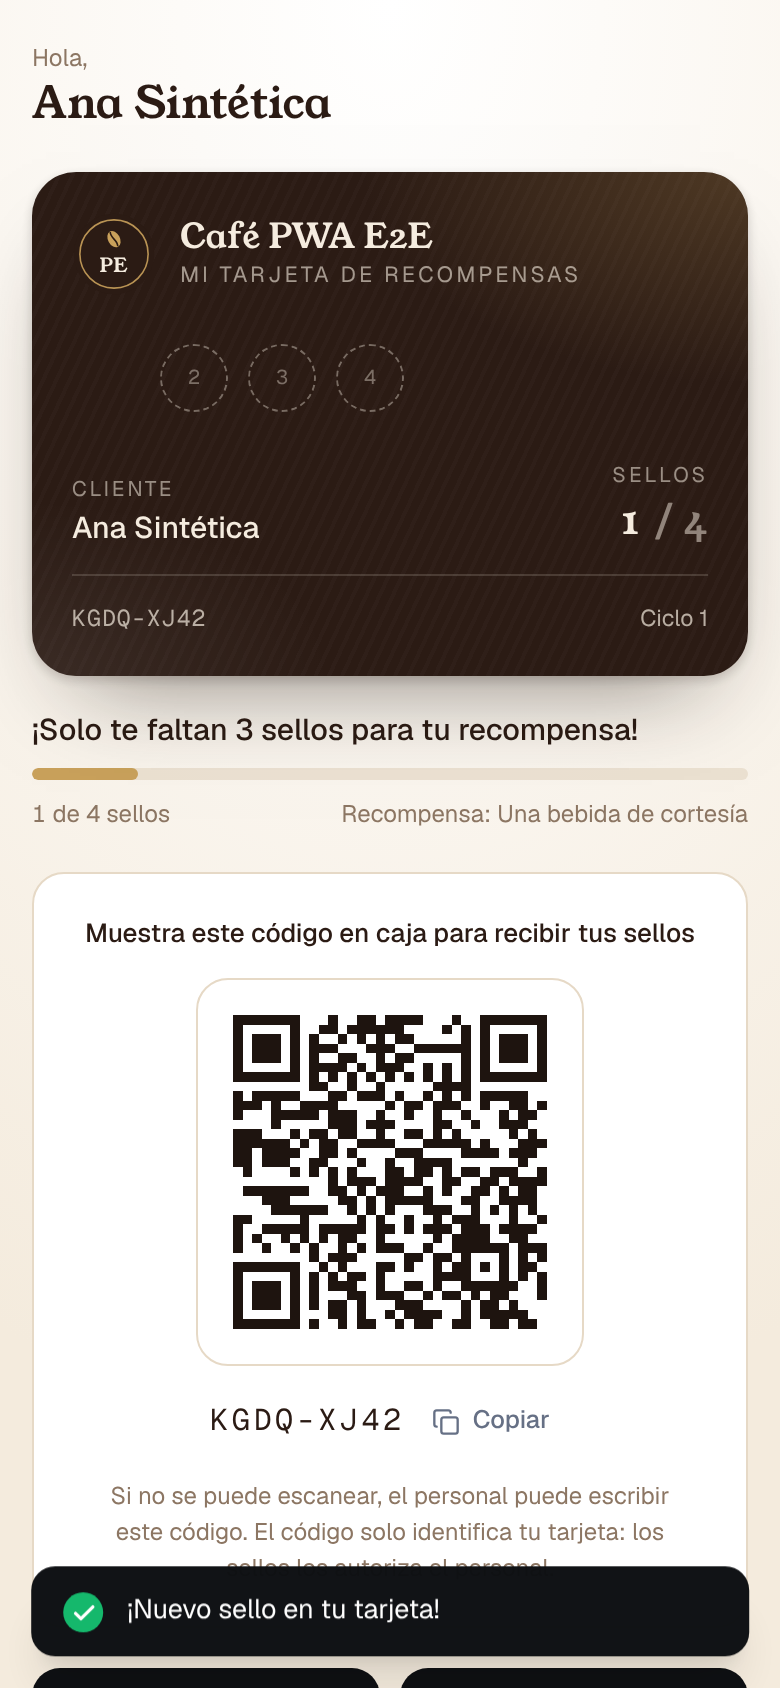
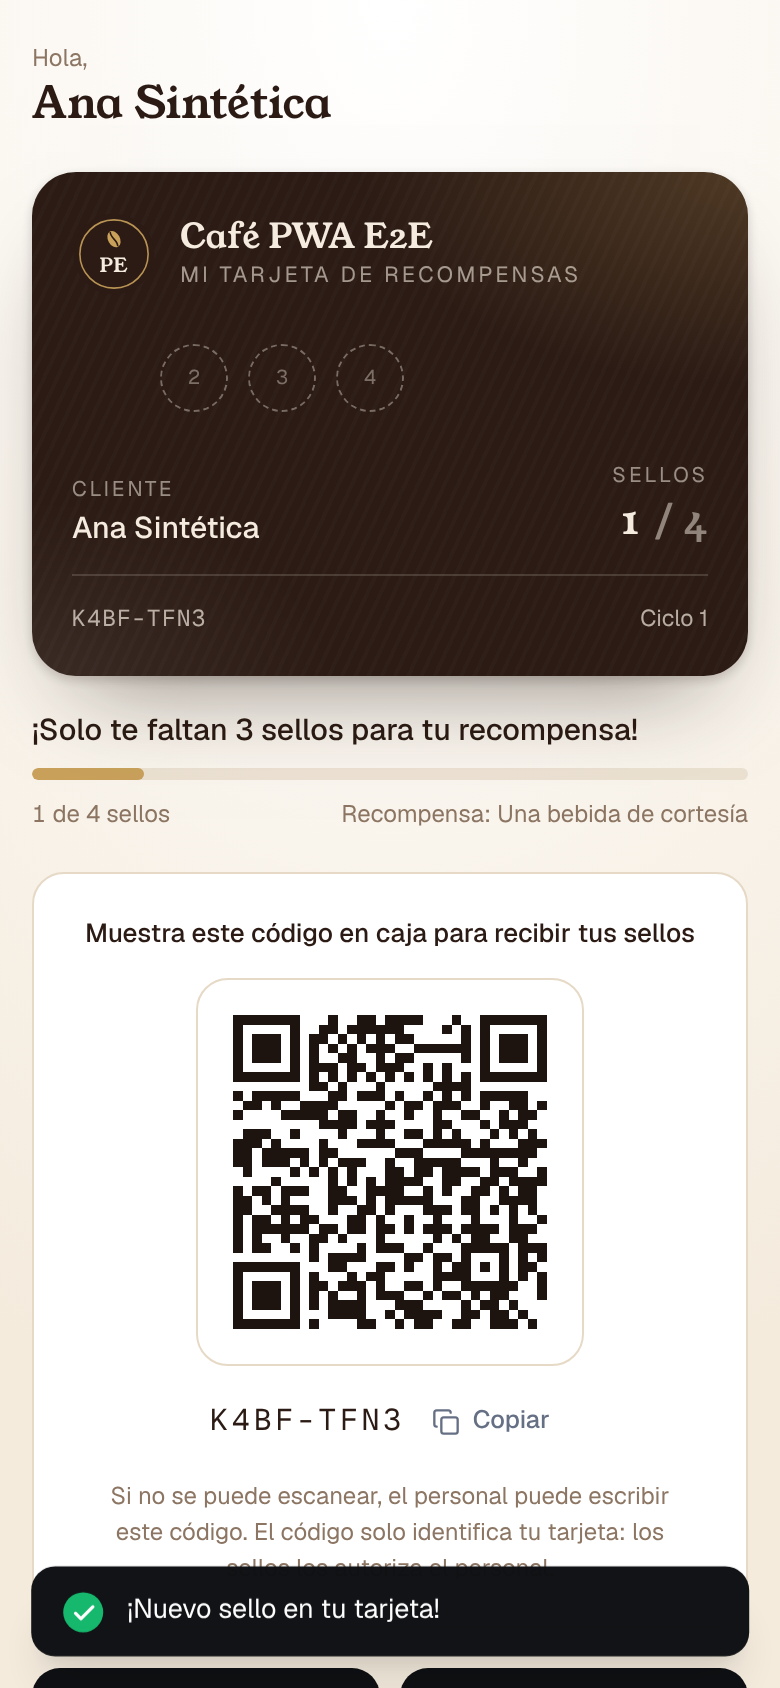
v0.2.2: correcciones de la revisión MSA (caché de íconos, RLS por negocio en códigos, reutilizar código, aviso de duplicado)
Claude-Session: https://claude.ai/code/session_01S7EQDY6CTzFJdWvEqDn6eR

diff --git a/src/components/SaveCard.tsx b/src/components/SaveCard.tsx
@@ -9,12 +9,21 @@ import { Button, Modal, Field, inputCls, CopyButton, useToast } from './ui';
 type PairCode = { code: string; expiresAt: string; expiresInMinutes: number };
 const fmtCode = (c: string) => `${c.slice(0, 4)} ${c.slice(4)}`;
 
+// Reutiliza el código vigente (en memoria de la página, nunca en almacenamiento) para no gastar el
+// cupo de códigos cada vez que se abre la guía. "Otro" fuerza uno nuevo.
+const openCodes = new Map<string, PairCode>();
+const stillValid = (c?: PairCode) => !!c && new Date(c.expiresAt).getTime() - Date.now() > 60_000;
+
 function usePairCode(slug: string) {
   const [code, setCode] = useState<PairCode | null>(null);
   const [error, setError] = useState<string | null>(null);
-  const load = useCallback(() => {
+  const load = useCallback((fresh = false) => {
     setError(null);
-    api<PairCode>('POST', `/me/${slug}/pair-code`).then(setCode).catch((e: ApiError) => setError(e.message));
+    const cached = openCodes.get(slug);
+    if (!fresh && stillValid(cached)) { setCode(cached!); return; }
+    api<PairCode>('POST', `/me/${slug}/pair-code`)
+      .then((c) => { openCodes.set(slug, c); setCode(c); })
+      .catch((e: ApiError) => setError(e.message));
   }, [slug]);
   return { code, error, load };
 }
@@ -30,10 +39,10 @@ function PairCodeBox({ slug, autoload }: { slug: string; autoload: boolean }) {
         <div className="mt-2 flex items-center gap-2">
           <span className="font-mono text-[22px] tracking-[0.12em] whitespace-nowrap text-cafe-ink" data-testid="pair-code">{fmtCode(code.code)}</span>
           <CopyButton text={code.code} />
-          <button onClick={load} className="ml-auto shrink-0 whitespace-nowrap text-[12px] text-cafe-muted inline-flex items-center gap-1 hover:text-cafe-ink"><RefreshCw size={12} /> Otro</button>
+          <button onClick={() => load(true)} className="ml-auto shrink-0 whitespace-nowrap text-[12px] text-cafe-muted inline-flex items-center gap-1 hover:text-cafe-ink"><RefreshCw size={12} /> Otro</button>
         </div>
       ) : error ? (
-        <p className="mt-2 text-[12.5px] text-[#B42318]">{error} <button onClick={load} className="underline">Reintentar</button></p>
+        <p className="mt-2 text-[12.5px] text-[#B42318]">{error} <button onClick={() => load(true)} className="underline">Reintentar</button></p>
       ) : (
         <p className="mt-2 text-[12.5px] text-cafe-muted">Generando…</p>
       )}
@@ -183,7 +192,10 @@ export function PairScreen({ slug, businessName, onPaired, onNew }: { slug: stri
           {mode === 'code' ? <><Link2 size={13} /> Usar mi enlace personal</> : <><KeyRound size={13} /> Usar un código</>}
         </button>
       </form>
-      <button onClick={onNew} className="text-[13px] text-cafe-muted underline">¿Aún no tienes tarjeta? Crear una</button>
+      <div className="text-center">
+        <button onClick={onNew} className="text-[13px] text-cafe-muted underline">¿Aún no tienes tarjeta? Crear una</button>
+        <p className="mt-1 text-[11.5px] text-cafe-muted leading-snug">Si ya tienes una, mejor usa tu código: crear otra duplicaría tus sellos.</p>
+      </div>
     </div>
   );
 }

diff --git a/tests/integration/v022.test.ts b/tests/integration/v022.test.ts
@@ -112,3 +112,40 @@ test('íconos: PNG con el tamaño correcto, caché pública y rutas acotadas', a
   assert.equal((await new Device('x').get(`/api/pwa/${b.slug}/icon/../../etc.png`)).status, 404);
   assert.equal((await new Device('x').get(`/api/pwa/${b.slug}/icon/64.png`)).status, 404);
 });
+
+test('revisión MSA: ícono en caché de CDN y memoria; códigos aislados por negocio (RLS)', async () => {
+  const { app } = await import('./helpers');
+  const b = await newBusiness();
+  const r1 = await app.request(`/api/pwa/${b.slug}/icon/512.png`);
+  assert.match(r1.headers.get('cache-control') ?? '', /s-maxage=86400/);
+  const t0 = Date.now();
+  const r2 = await app.request(`/api/pwa/${b.slug}/icon/512.png`);
+  assert.equal(r2.status, 200);
+  assert.ok(Date.now() - t0 < 100, 'la segunda petición sale de memoria, sin volver a dibujar');
+  assert.deepEqual(Buffer.from(await r1.arrayBuffer()), Buffer.from(await r2.arrayBuffer()));
+
+  // Política tenant_isolation: con el contexto de otro negocio no se ve ningún código.
+  const { b: owner } = await customerWithCode();
+  const other = await newBusiness();
+  const c = await admin.connect();
+  try {
+    await c.query('BEGIN');
+    await c.query('SET LOCAL ROLE vlux_app');
+    await c.query("SELECT set_config('app.business_id', $1, true)", [other.businessId]);
+    const seen = (await c.query('SELECT count(*)::int AS n FROM card_pair_codes WHERE business_id = $1', [owner.businessId])).rows[0].n;
+    assert.equal(seen, 0, 'otro negocio no ve los códigos');
+    await c.query("SELECT set_config('app.business_id', $1, true)", [owner.businessId]);
+    const mine = (await c.query('SELECT count(*)::int AS n FROM card_pair_codes')).rows[0].n;
+    assert.equal(mine, 1, 'el propio negocio sí ve su código');
+  } finally { await c.query('ROLLBACK'); c.release(); }
+});
+
+test('revisión MSA: un número ya usado puede volver a emitirse (índice único solo entre códigos abiertos)', async () => {
+  const { b, code } = await customerWithCode();
+  assert.equal((await new Device('app').post(`/api/me/${b.slug}/pair`, { code })).status, 200);
+  const before = (await admin.query('SELECT count(*)::int AS n FROM card_pair_codes WHERE business_id = $1', [b.businessId])).rows[0].n;
+  // Fuerza la reaparición del mismo hash: inserta uno abierto con el mismo hash que el ya usado.
+  await admin.query(`INSERT INTO card_pair_codes (code_hash, card_id, business_id, expires_at)
+    SELECT code_hash, card_id, business_id, now() + interval '15 minutes' FROM card_pair_codes WHERE business_id = $1`, [b.businessId]);
+  assert.equal((await admin.query('SELECT count(*)::int AS n FROM card_pair_codes WHERE business_id = $1', [b.businessId])).rows[0].n, before + 1);
+});

diff --git a/server/app.ts b/server/app.ts
@@ -26,6 +26,7 @@ type Env = { Variables: { staff: StaffSession } };
 const STAFF_COOKIE = 'vlx_staff';
 const cardCookie = (slug: string) => `vlx_card_${slug}`;
 const CARD_COOKIE_DAYS = 400; // máximo que permiten los navegadores
+const iconCache = new Map<string, Uint8Array<ArrayBuffer>>(); // íconos PWA ya dibujados (por instancia)
 
 function cookieOpts(maxAgeSeconds: number) {
   return { httpOnly: true, secure: config.isProduction, sameSite: 'Lax' as const, path: '/', maxAge: maxAgeSeconds };
@@ -209,7 +210,7 @@ export function buildApp() {
   // Manifiesto e íconos por negocio: solo datos públicos del negocio (nunca tokens ni datos del cliente).
   api.get('/pwa/:slug/manifest.webmanifest', async (c) => {
     const b = await getBusinessBySlug(slugSchema.parse(c.req.param('slug')));
-    c.header('Cache-Control', 'public, max-age=300');
+    c.header('Cache-Control', 'public, max-age=300, s-maxage=300');
     c.header('Content-Type', 'application/manifest+json; charset=utf-8');
     return c.body(JSON.stringify(buildManifest(b)));
   });
@@ -220,9 +221,18 @@ export function buildApp() {
     const b = await getBusinessBySlug(slugSchema.parse(c.req.param('slug')));
     const maskable = m[1].startsWith('maskable');
     const size = maskable ? 512 : Number(m[1]);
-    c.header('Cache-Control', 'public, max-age=86400');
+    // Dibujar un ícono cuesta CPU: se guarda en memoria y la CDN lo cachea (s-maxage).
+    const key = `${b.slug}|${m[1]}|${b.name}|${b.primaryColor}|${b.accentColor}`;
+    let png = iconCache.get(key);
+    if (!png) {
+      await rateLimit(`icon:${clientIp(c)}`, 60, 60_000);
+      png = new Uint8Array(renderIcon({ size, maskable, name: b.name, primary: b.primaryColor, accent: b.accentColor }));
+      if (iconCache.size >= 200) iconCache.delete(iconCache.keys().next().value as string);
+      iconCache.set(key, png);
+    }
+    c.header('Cache-Control', 'public, max-age=86400, s-maxage=86400, stale-while-revalidate=604800');
     c.header('Content-Type', 'image/png');
-    return c.body(new Uint8Array(renderIcon({ size, maskable, name: b.name, primary: b.primaryColor, accent: b.accentColor })));
+    return c.body(png);
   });
 
   // Enlace personal en el fragmento (#): el token nunca viaja en la URL, así no queda en logs del

diff --git a/server/services/pairing.ts b/server/services/pairing.ts
@@ -17,13 +17,22 @@ const codeHash = (businessId: string, code: string) => sha256(`pair:${businessId
 
 /** Emite un código nuevo para la tarjeta (invalida los anteriores sin usar). */
 export async function issuePairCode(ref: { cardId: string; businessId: string }) {
-  const code = String(randomInt(0, 100_000_000)).padStart(8, '0');
   const expiresAt = new Date(Date.now() + PAIR_MINUTES * 60_000);
-  await withTenant(ref.businessId, async (tx) => {
-    await tx.query('UPDATE card_pair_codes SET expires_at = now() WHERE card_id = $1 AND used_at IS NULL AND expires_at > now()', [ref.cardId]);
-    await tx.query('INSERT INTO card_pair_codes (code_hash, card_id, business_id, expires_at) VALUES ($1, $2, $3, $4)', [codeHash(ref.businessId, code), ref.cardId, ref.businessId, expiresAt]);
-  });
-  return { code, expiresAt: expiresAt.toISOString(), expiresInMinutes: PAIR_MINUTES };
+  // El hash es único entre códigos sin usar del negocio: si el número choca (muy poco probable), se reintenta.
+  for (let attempt = 0; ; attempt++) {
+    const code = String(randomInt(0, 100_000_000)).padStart(8, '0');
+    try {
+      await withTenant(ref.businessId, async (tx) => {
+        // Limpieza: los códigos vencidos hace más de un día ya no sirven para nada (RLS limita al negocio).
+        await tx.query("DELETE FROM card_pair_codes WHERE expires_at < now() - interval '1 day'");
+        await tx.query('UPDATE card_pair_codes SET expires_at = now() WHERE card_id = $1 AND used_at IS NULL AND expires_at > now()', [ref.cardId]);
+        await tx.query('INSERT INTO card_pair_codes (code_hash, card_id, business_id, expires_at) VALUES ($1, $2, $3, $4)', [codeHash(ref.businessId, code), ref.cardId, ref.businessId, expiresAt]);
+      });
+      return { code, expiresAt: expiresAt.toISOString(), expiresInMinutes: PAIR_MINUTES };
+    } catch (e) {
+      if ((e as { code?: string }).code !== '23505' || attempt >= 4) throw e;
+    }
+  }
 }
 
 /** Canjea el código: crea un acceso nuevo para este dispositivo (no revoca el de Safari). */
